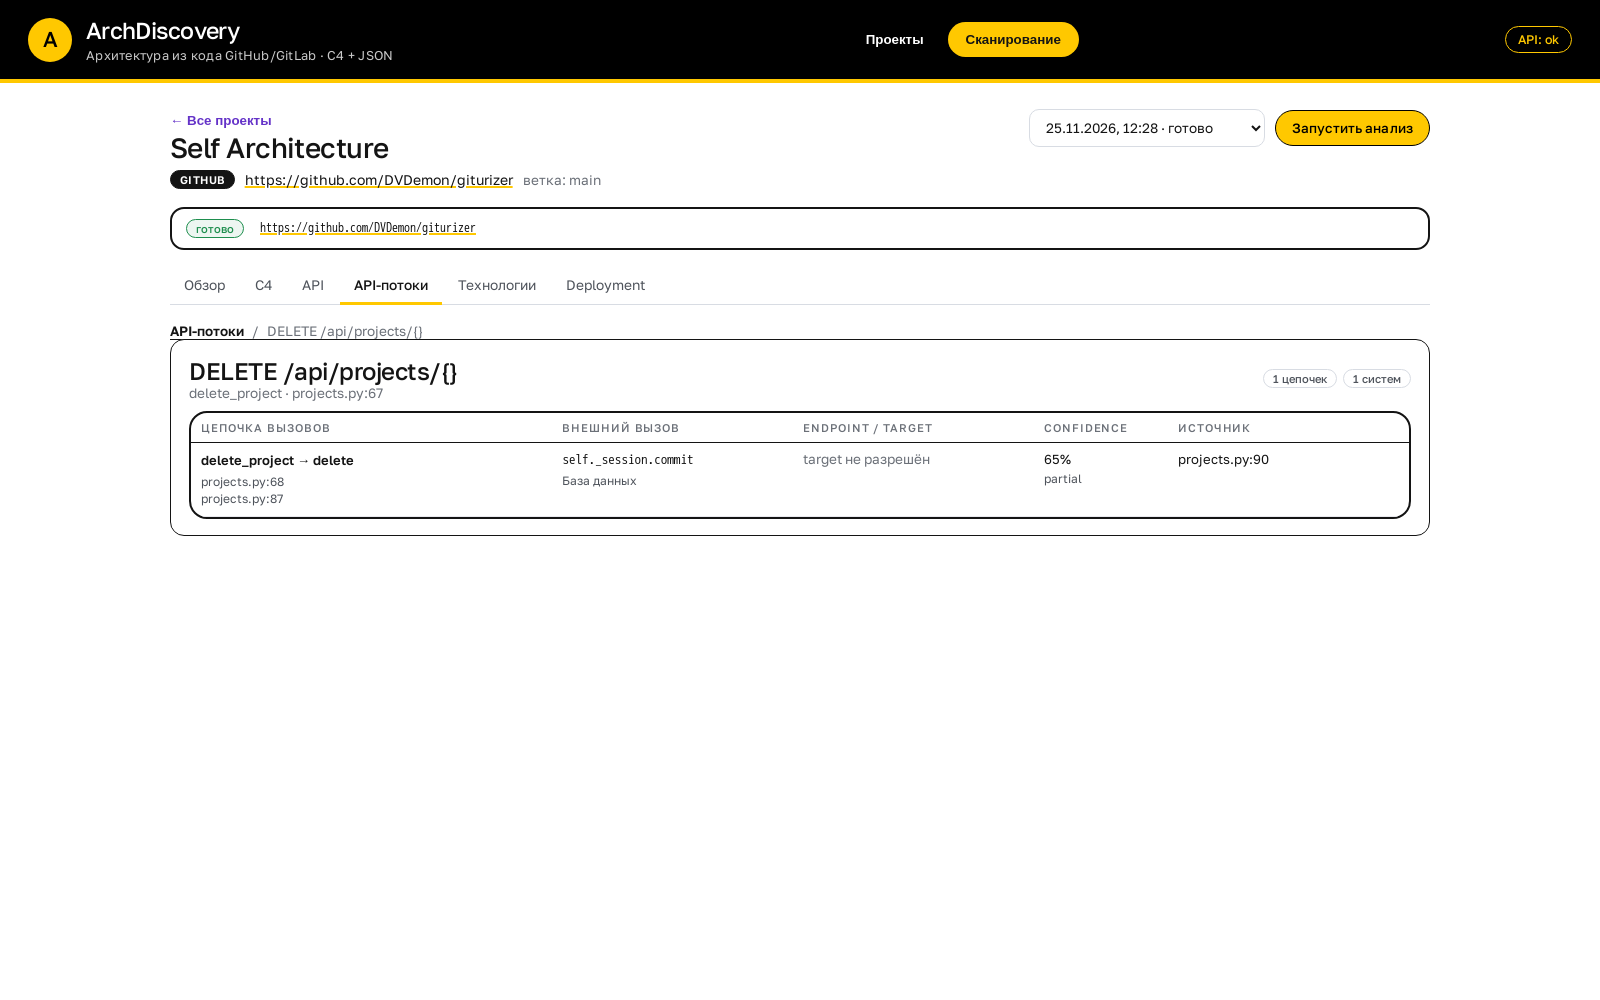
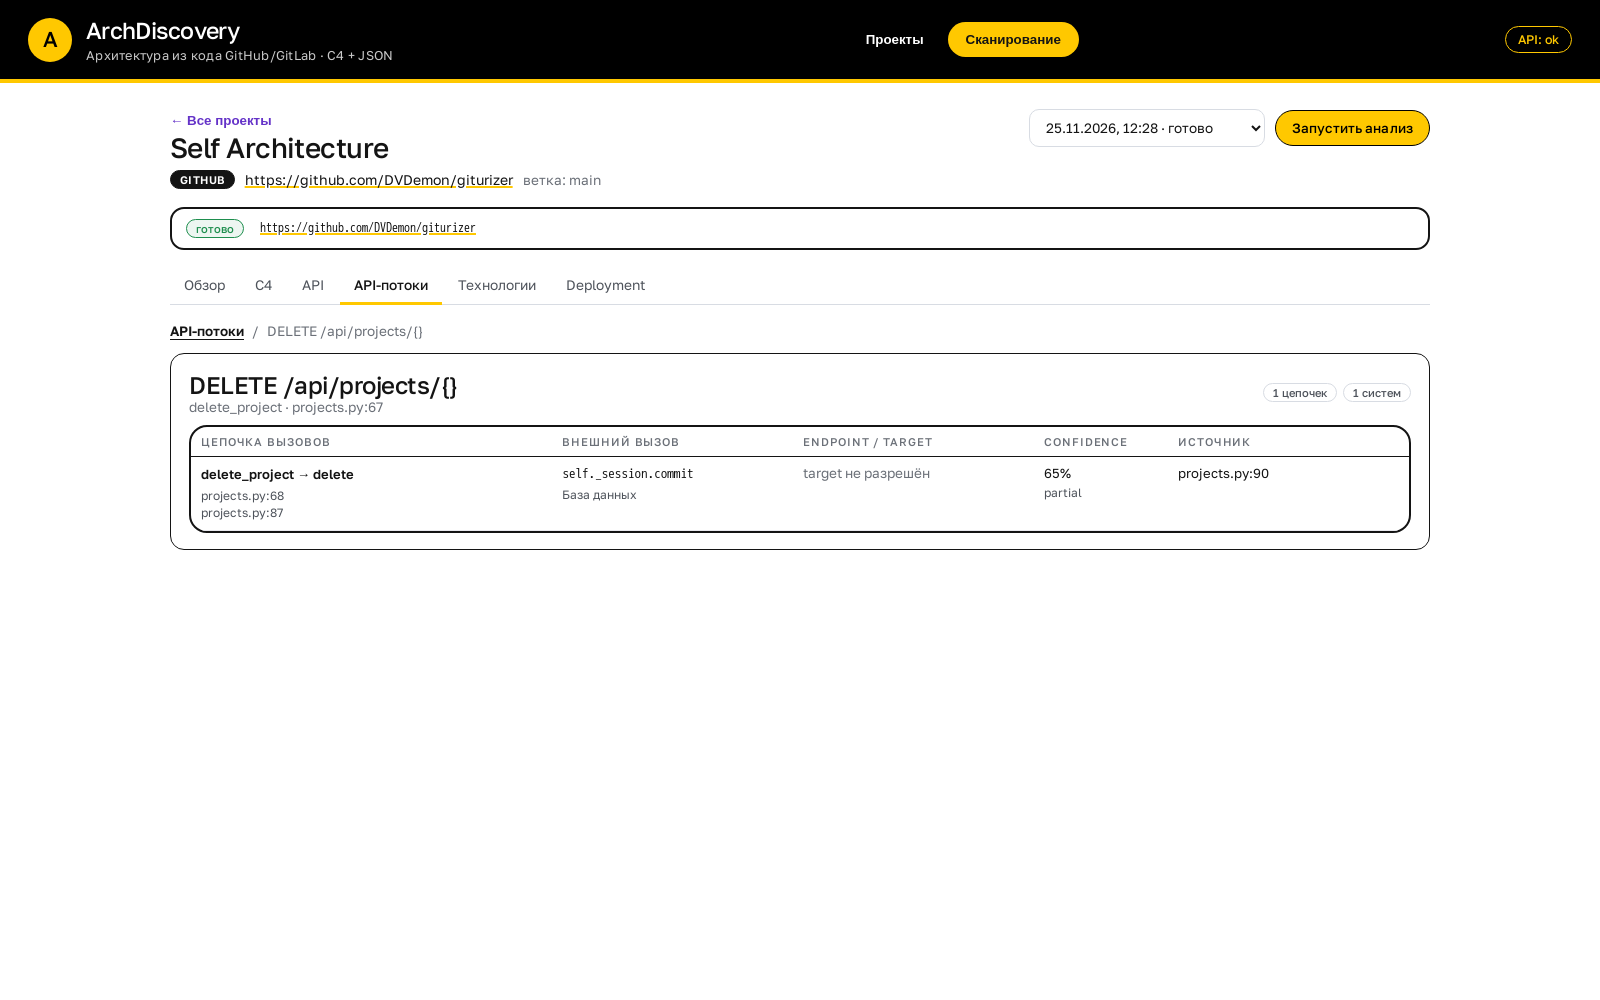
feat: детальный прогресс анализа и отступ breadcrumbs
- progress_detail в analysis_runs (миграция 0008): message/current/total/unit
- Tree-sitter обновляет прогресс по файлам в БД (analyzer получает DATABASE_URL)
- UI показывает этап и «обработано / всего файлов»
- больше отступ между breadcrumbs и детальной карточкой
- tests/docs/screenshot
- 95 тестов, coverage 86.41%

Changed region(s): [[0.125, 0.341, 0.875, 0.558]]

diff --git a/web/src/components/ScanPage.tsx b/web/src/components/ScanPage.tsx
@@ -290,6 +290,17 @@ export function ScanPage({ projectId, onBack }: Props) {
               <span>{progress}%</span>
               <span>{formatDuration(activeRun)}</span>
             </div>
+            {activeRun.progress_detail?.message && (
+              <div className="progress-detail">
+                <span>{activeRun.progress_detail.message}</span>
+                {(activeRun.progress_detail.total ?? 0) > 0 && (
+                  <strong>
+                    {activeRun.progress_detail.current?.toLocaleString("ru-RU") ?? 0} /{" "}
+                    {activeRun.progress_detail.total?.toLocaleString("ru-RU")} файлов
+                  </strong>
+                )}
+              </div>
+            )}
             <div className="scan-counters">
               <div className="counter">
                 <strong>{activeRun.technologies_count}</strong>

diff --git a/web/src/styles.css b/web/src/styles.css
@@ -1504,6 +1504,26 @@ p {
   font-size: 0.85rem;
   color: var(--soft);
   flex-wrap: wrap;
+  margin-bottom: 14px;
+}
+
+.progress-detail {
+  display: flex;
+  justify-content: space-between;
+  gap: 12px;
+  margin-top: 10px;
+  padding: 8px 10px;
+  border-left: 3px solid var(--accent);
+  background: var(--gray);
+  color: var(--soft);
+  font-size: 0.8rem;
+  flex-wrap: wrap;
+}
+
+.progress-detail strong {
+  color: var(--ink);
+  font-variant-numeric: tabular-nums;
+  white-space: nowrap;
 }
 
 .crumb-link {

diff --git a/web/src/types.ts b/web/src/types.ts
@@ -23,6 +23,12 @@ export interface Run {
   status: RunStatus;
   stage: string | null;
   progress: number;
+  progress_detail?: {
+    message?: string;
+    current?: number;
+    total?: number;
+    unit?: string;
+  } | null;
   technologies_count: number;
   services_count: number;
   api_count: number;

diff --git a/backend/src/archdiscovery/services/pipeline.py b/backend/src/archdiscovery/services/pipeline.py
@@ -40,7 +40,7 @@ from archdiscovery.vcs.clone import clone_repository, detect_default_branch
 CloneFn = Callable[[str, str, str | None, Path], str]
 DispatchFn = Callable[[Path, Path], dict]
 ArchguardDispatchFn = Callable[[Path, Path, list[str]], dict]
-SyntaxDispatchFn = Callable[[Path, Path, list[str]], dict]
+SyntaxDispatchFn = Callable[..., dict]
 
 SYNTAX_LANGUAGES = {
     "Java": "java",
@@ -65,6 +65,7 @@ def _advance(
     *,
     stage: str | None = None,
     progress: int | None = None,
+    detail: dict | None = None,
     **counters: int,
 ) -> None:
     """Фиксирует стадию/прогресс/счётчики запуска для UI."""
@@ -72,6 +73,8 @@ def _advance(
         run.stage = stage
     if progress is not None:
         run.progress = progress
+    if detail is not None:
+        run.progress_detail = detail
     for name, value in counters.items():
         setattr(run, name, value)
     session.commit()
@@ -105,7 +108,13 @@ def execute_run(
     run.status = RunStatus.running
     run.started_at = datetime.now(UTC)
     session.commit()
-    _advance(session, run, stage="clone", progress=3)
+    _advance(
+        session,
+        run,
+        stage="clone",
+        progress=3,
+        detail={"message": "Клонирование репозитория и submodules", "unit": "files"},
+    )
 
     cleanup_repo = not (settings.keep_repos if keep_repos is None else keep_repos)
 
@@ -123,7 +132,13 @@ def execute_run(
             session.commit()
         run.commit_sha = clone(project.repo_url, branch, token, repo_path)
         session.commit()
-        _advance(session, run, stage="detect", progress=15)
+        _advance(
+            session,
+            run,
+            stage="detect",
+            progress=15,
+            detail={"message": "Определение технологий", "unit": "files"},
+        )
 
         technologies = detect_technologies(repo_path)
         tech_payload = [technology.as_dict() for technology in technologies]
@@ -141,6 +156,12 @@ def execute_run(
             stage="analyzers",
             progress=30,
             technologies_count=len(technologies),
+            detail={
+                "message": "Tree-sitter: индексация файлов",
+                "current": 0,
+                "total": 0,
+                "unit": "files",
+            },
         )
 
         syntax_languages = sorted(
@@ -154,7 +175,9 @@ def execute_run(
         if syntax_languages:
             try:
                 dispatcher = syntax_dispatch or dispatch_syntax_analyzer
-                syntax_artifact = dispatcher(repo_path, artifacts_dir, syntax_languages)
+                syntax_artifact = dispatcher(
+                    repo_path, artifacts_dir, syntax_languages, run_id=str(run.id)
+                )
                 session.add(
                     RunArtifact(
                         run_id=run.id,
@@ -169,6 +192,11 @@ def execute_run(
             except Exception as exc:  # noqa: BLE001 - сбой инструмента не валит пайплайн
                 warnings.append(f"syntax analyzer: {exc}")
 
+        _advance(
+            session,
+            run,
+            detail={"message": "C++: doxygen + include-граф", "unit": "files"},
+        )
         cpp_artifact: dict | None = None
         if any(technology.name == "C++" for technology in technologies):
             try:
@@ -193,6 +221,14 @@ def execute_run(
             {ARCHGUARD_LANGUAGES[name] for name in detected_names if name in ARCHGUARD_LANGUAGES}
         )
         if archguard_languages:
+            _advance(
+                session,
+                run,
+                detail={
+                    "message": "ArchGuard: анализ API и данных",
+                    "unit": "files",
+                },
+            )
             try:
                 dispatcher = archguard_dispatch or dispatch_archguard_analyzer
                 archguard_artifact = dispatcher(repo_path, artifacts_dir, archguard_languages)
@@ -273,7 +309,13 @@ def execute_run(
             )
         )
         session.commit()
-        _advance(session, run, stage="finalize", progress=95)
+        _advance(
+            session,
+            run,
+            stage="finalize",
+            progress=95,
+            detail={"message": "Сборка отчёта и C4", "unit": "files"},
+        )
 
         if warnings:
             session.add(
@@ -286,7 +328,13 @@ def execute_run(
             )
             session.commit()
 
-        _advance(session, run, stage="done", progress=100)
+        _advance(
+            session,
+            run,
+            stage="done",
+            progress=100,
+            detail={"message": "Готово", "unit": "files"},
+        )
         run.status = RunStatus.done
     except Exception as exc:  # noqa: BLE001 - причину фиксируем в запуске
         run.stage = "failed"

diff --git a/backend/src/archdiscovery/analyzer/tasks.py b/backend/src/archdiscovery/analyzer/tasks.py
@@ -1,3 +1,4 @@
+import uuid
 from pathlib import Path
 
 from celery import shared_task
@@ -27,11 +28,40 @@ def analyze_archguard_task(repo_path: str, output_path: str, languages: list[str
 
 
 @shared_task(name="analyzer.syntax")
-def analyze_syntax_task(repo_path: str, output_path: str, languages: list[str]) -> dict:
-    """Tree-sitter syntax-index: endpoint → handler."""
+def analyze_syntax_task(
+    repo_path: str,
+    output_path: str,
+    languages: list[str],
+    run_id: str | None = None,
+) -> dict:
+    """Tree-sitter syntax-index: endpoint → handler + прогресс по файлам."""
     from archdiscovery.analyzer.syntax.analyze import analyze_syntax
+    from archdiscovery.db.models import AnalysisRun
+    from archdiscovery.db.session import SessionLocal
 
-    result = analyze_syntax(Path(repo_path), Path(output_path), languages)
+    def report(current: int, total: int, message: str) -> None:
+        if not run_id:
+            return
+        try:
+            with SessionLocal() as session:
+                run = session.get(AnalysisRun, uuid.UUID(run_id))
+                if run is None:
+                    return
+                percent = 30
+                if total > 0:
+                    percent = 30 + min(15, int(15 * current / total))
+                run.progress = percent
+                run.progress_detail = {
+                    "message": message,
+                    "current": current,
+                    "total": total,
+                    "unit": "files",
+                }
+                session.commit()
+        except Exception:  # noqa: BLE001 - прогресс не должен валить анализ
+            return
+
+    result = analyze_syntax(Path(repo_path), Path(output_path), languages, progress=report)
     return {
         "output_path": output_path,
         "stats": result["stats"],

diff --git a/backend/src/archdiscovery/analyzer/syntax/analyze.py b/backend/src/archdiscovery/analyzer/syntax/analyze.py
@@ -3,7 +3,7 @@
 from __future__ import annotations
 
 import json
-from collections.abc import Iterable
+from collections.abc import Callable, Iterable
 from pathlib import Path
 from typing import Any
 
@@ -47,11 +47,16 @@ def analyze_syntax(
     repo_path: Path,
     output_path: Path,
     languages: list[str] | None = None,
+    progress: Callable[[int, int, str], None] | None = None,
 ) -> dict[str, Any]:
     requested = set(languages or SUPPORTED_LANGUAGES) & SUPPORTED_LANGUAGES
+    paths = list(_iter_files(repo_path, requested))
+    total = len(paths)
+    if progress is not None:
+        progress(0, total, "Tree-sitter: индексация файлов")
     files: list[dict[str, Any]] = []
     errors: list[dict[str, str]] = []
-    for path in sorted(_iter_files(repo_path, requested)):
+    for index, path in enumerate(paths, 1):
         try:
             files.append(analyze_file(path, repo_path))
         except Exception as exc:  # noqa: BLE001 - один файл не валит анализ
@@ -61,6 +66,8 @@ def analyze_syntax(
                     "error": f"{type(exc).__name__}: {exc}",
                 }
             )
+        if progress is not None and (index == total or index % 100 == 0):
+            progress(index, total, "Tree-sitter: индексация файлов")
 
     handlers = build_handlers(files, repo_path)
     outbound_calls = build_outbound_calls(files, handlers)

diff --git a/backend/tests/test_syntax.py b/backend/tests/test_syntax.py
@@ -99,3 +99,20 @@ def test_handlers_endpoint(client: TestClient, session: Session) -> None:
 def test_handlers_endpoint_requires_run(client: TestClient) -> None:
     response = client.get(f"/api/runs/{uuid.uuid4()}/handlers")
     assert response.status_code == 404
+
+
+def test_reports_file_progress(tmp_path: Path) -> None:
+    for index in range(3):
+        write(
+            tmp_path / f"app{index}.py",
+            '@router.get("/health")\n' "def health():\n" "    ...\n",
+        )
+    events: list[tuple[int, int, str]] = []
+    analyze_syntax(
+        tmp_path,
+        tmp_path / "syntax.json",
+        progress=lambda current, total, message: events.append((current, total, message)),
+    )
+    assert events[0][0] == 0
+    assert events[-1][0] == events[-1][1] == 3
+    assert "Tree-sitter" in events[-1][2]

diff --git a/backend/src/archdiscovery/pipeline/dispatch.py b/backend/src/archdiscovery/pipeline/dispatch.py
@@ -45,12 +45,13 @@ def dispatch_syntax_analyzer(
     artifacts_dir: Path,
     languages: list[str],
     timeout: int | None = None,
+    run_id: str | None = None,
 ) -> dict:
     """Ставит Tree-sitter syntax-index в очередь analyzers и ждёт результат."""
     output = artifacts_dir / "syntax.json"
     async_result = celery_app.send_task(
         "analyzer.syntax",
-        args=[str(repo_path), str(output), list(languages)],
+        args=[str(repo_path), str(output), list(languages), run_id],
         queue="analyzers",
     )
     async_result.get(timeout=timeout or settings.analyzer_timeout, disable_sync_subtasks=False)

diff --git a/backend/src/archdiscovery/db/models.py b/backend/src/archdiscovery/db/models.py
@@ -54,6 +54,7 @@ class AnalysisRun(Base):
     commit_sha: Mapped[str | None] = mapped_column(String(64), nullable=True)
     stage: Mapped[str | None] = mapped_column(String(32), nullable=True)
     progress: Mapped[int] = mapped_column(Integer, nullable=False, default=0)
+    progress_detail: Mapped[dict | None] = mapped_column(JSONType, nullable=True)
     technologies_count: Mapped[int] = mapped_column(Integer, nullable=False, default=0)
     services_count: Mapped[int] = mapped_column(Integer, nullable=False, default=0)
     api_count: Mapped[int] = mapped_column(Integer, nullable=False, default=0)

diff --git a/backend/alembic/versions/0008_run_progress_detail.py b/backend/alembic/versions/0008_run_progress_detail.py
@@ -1,0 +1,26 @@
+"""analysis_runs.progress_detail
+
+Revision ID: 0008
+Revises: 0007
+Create Date: 2026-11-25
+
+"""
+import sqlalchemy as sa
+from alembic import op
+from sqlalchemy.dialects import postgresql
+
+revision = "0008"
+down_revision = "0007"
+branch_labels = None
+depends_on = None
+
+
+def upgrade() -> None:
+    op.add_column(
+        "analysis_runs",
+        sa.Column("progress_detail", postgresql.JSONB(astext_type=sa.Text()), nullable=True),
+    )
+
+
+def downgrade() -> None:
+    op.drop_column("analysis_runs", "progress_detail")

diff --git a/backend/src/archdiscovery/schemas/run.py b/backend/src/archdiscovery/schemas/run.py
@@ -20,6 +20,7 @@ class RunRead(BaseModel):
     status: RunStatus
     stage: str | None
     progress: int
+    progress_detail: dict[str, Any] | None = None
     technologies_count: int
     services_count: int
     api_count: int

diff --git a/README.md b/README.md
@@ -44,6 +44,9 @@ make smoke
   прогресс-бар, длительность, счётчики технологий/сервисов/API. Для активного
   запуска данные обновляются каждые 2.5 с; после завершения доступны вкладки:
   **Обзор**, **C4**, **API**, **API-потоки**, **Технологии**, **Deployment**.
+  Во время анализа показываются этап и детальный прогресс: обработано/всего файлов.
+
+![Детальный прогресс анализа](docs/assets/ui-progress-detail.png)
   После завершения анализа верхняя плашка с прогрессом скрывается — остаются URL,
   статус и вкладки.
   **Обзор** — статистика запуска и раскрывающееся JSON-дерево отчёта с кнопкой
